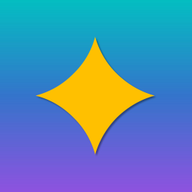
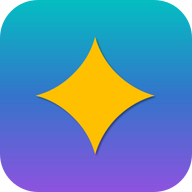
feat: 图标圆角、初一十五文案精简
Made-with: Cursor

diff --git a/app/src/lib/calendar.ts b/app/src/lib/calendar.ts
@@ -102,7 +102,7 @@ const DAOIST_DATES: Record<string, string> = {
 
 function getDaoistNote(month: number, day: number): string {
   const fastingHint =
-    day === 1 ? "今日初一，宜持斋诵经" : day === 15 ? "今日十五，宜持斋诵经" : null;
+    day === 1 ? "初一宜持斋诵经" : day === 15 ? "十五宜持斋诵经" : null;
   const eventNote = DAOIST_DATES[`${month}-${day}`];
   if (fastingHint && eventNote) return `${fastingHint}；${eventNote}`;
   if (fastingHint) return fastingHint;
